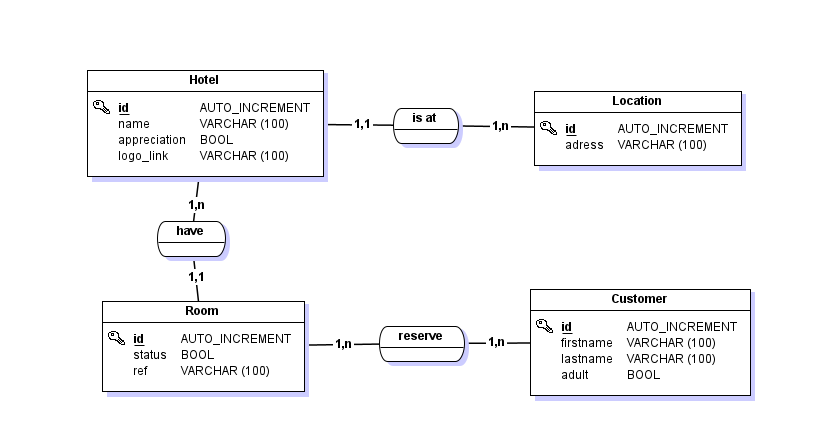
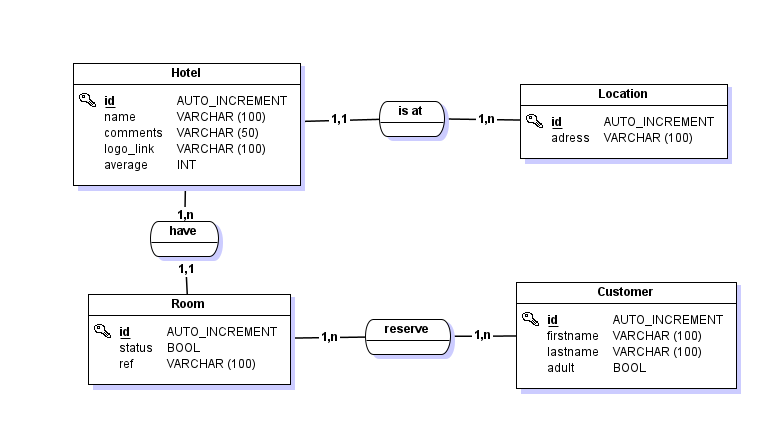
refactor: entity for hotel

Changed region(s): [[0.0902, 0.1533, 0.9922, 0.9505]]

diff --git a/src/entity/hotel.entity.ts b/src/entity/hotel.entity.ts
@@ -9,8 +9,8 @@ class Hotel{
     private name: string;
 
     @Column()
-    private location: string;
+    private average: string;
 
     @Column()
-    private average: string;
+    private comments: string;
 }
